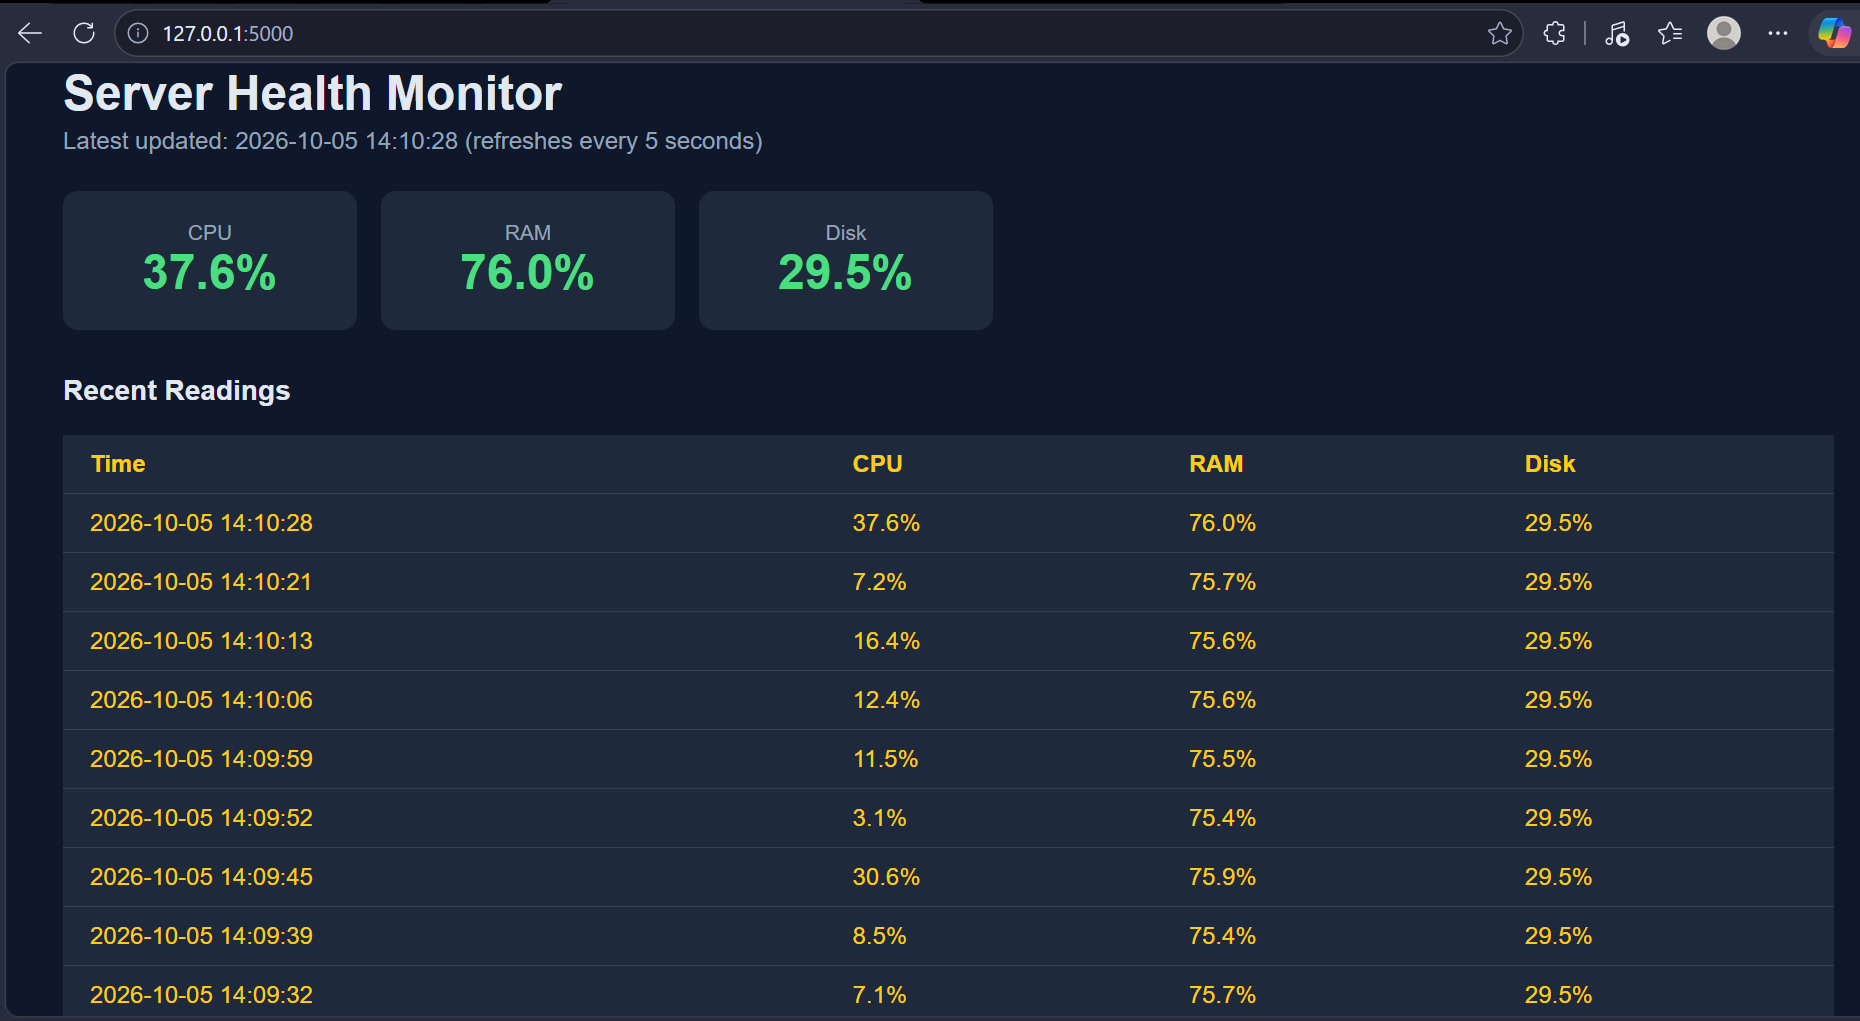
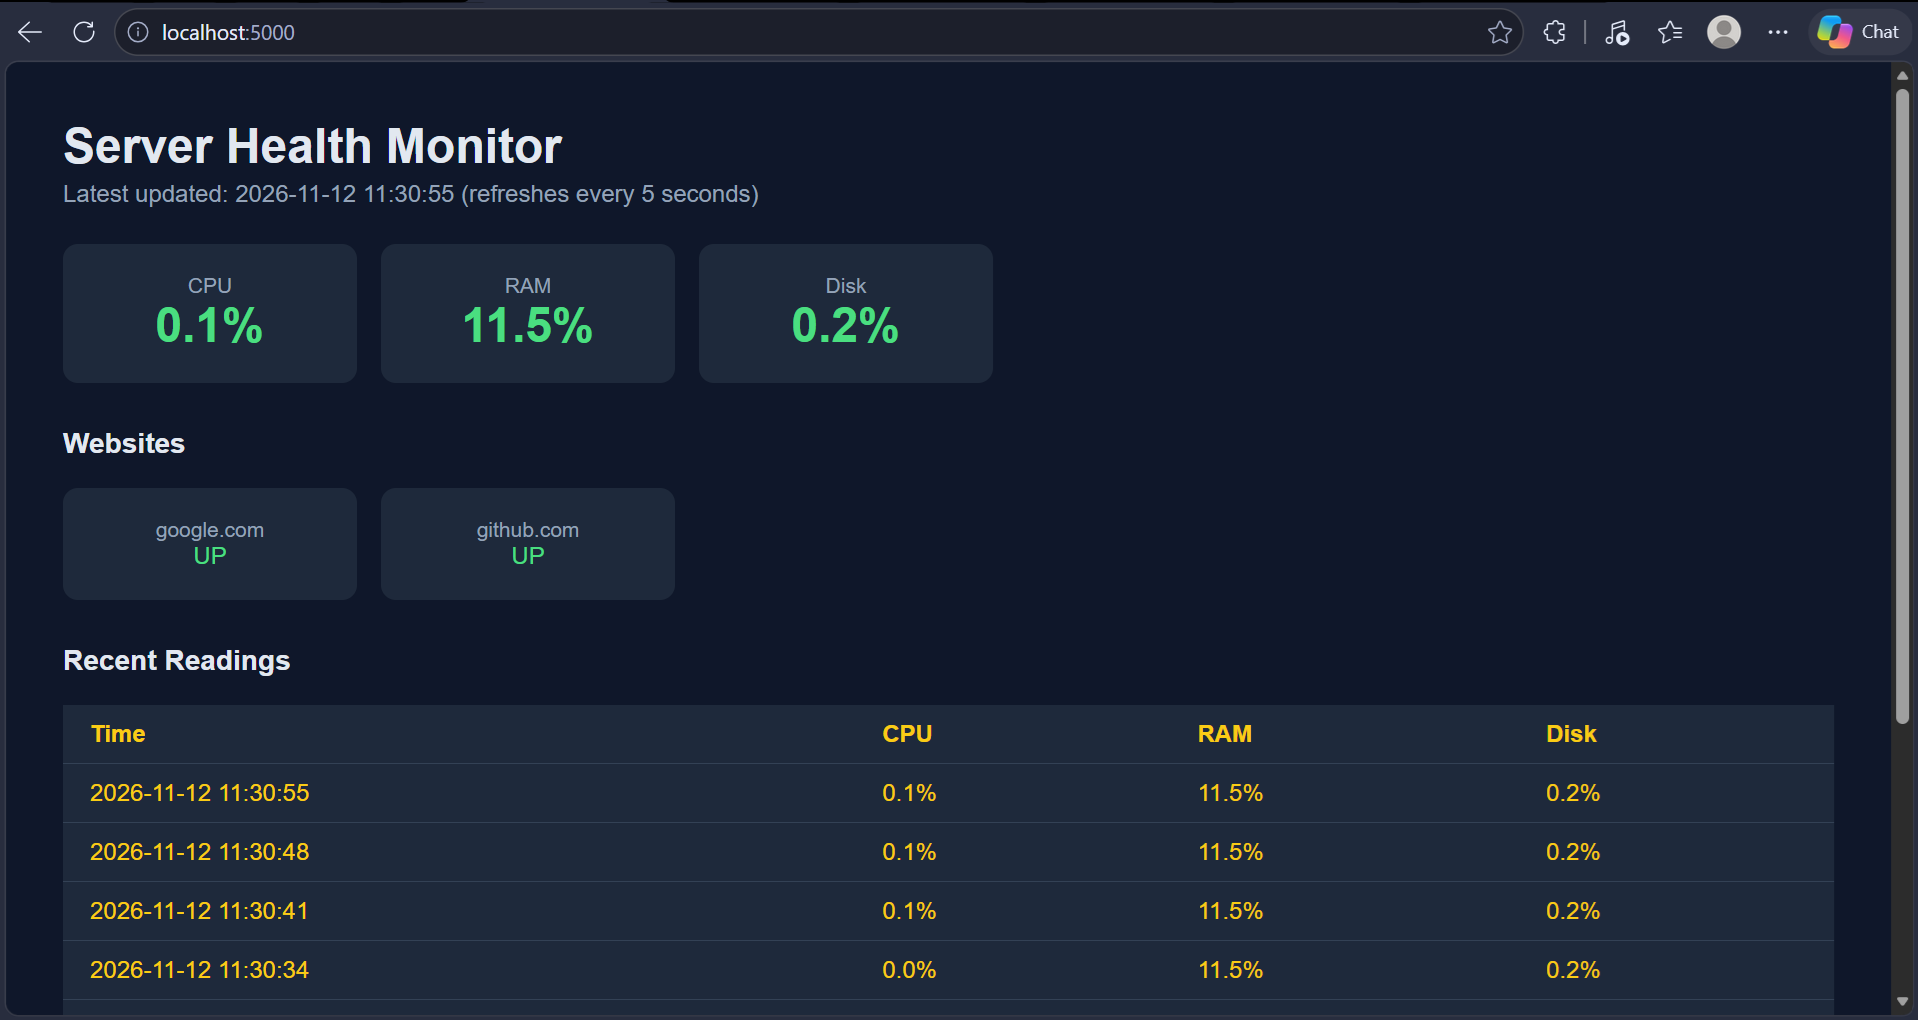
Add dashboard-down screenshot to README

diff --git a/README.md b/README.md
@@ -6,6 +6,10 @@ A Python tool that monitors a machine's CPU, RAM and disk usage, checks whether 
 
 ![Dashboard](dashboard.png)
 
+   *When a monitored site goes down, its card turns red:*
+
+![Dashboard with a site down](dashboard_down.png)
+
 ## Features
 
 - Reads CPU, RAM and disk usage with `psutil`
